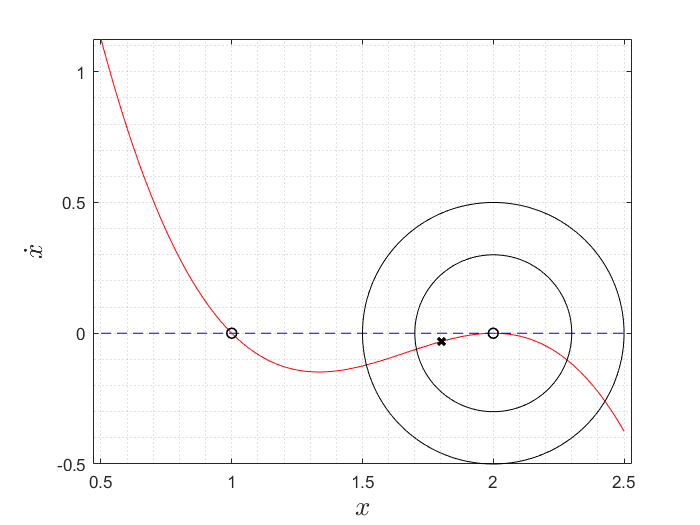
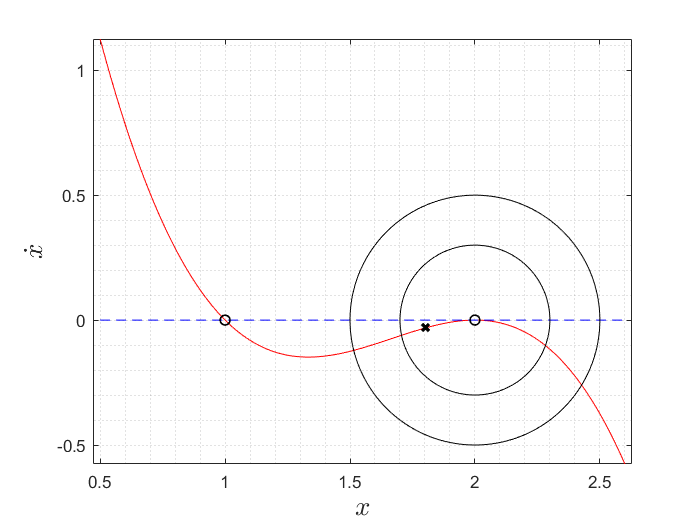
Add files via upload

diff --git a/Exercises/Exercise-1/Code/stability.m b/Exercises/Exercise-1/Code/stability.m
@@ -10,7 +10,7 @@ syms z y k l
 
 
 %% Dynamical System
-x = 0.5:0.000001:2.5;
+x = 0.5:0.0000001:2.6;
 x_dot = -(x-1).*((x-2).^2);
 
 % Circle Parameters
@@ -32,4 +32,5 @@ plot(2,0,'ko','LineWidth',1);
 axis equal;
 grid minor;
 xlabel("$x$","Interpreter","latex","FontSize",16);
-ylabel("$\dot{x}$","Interpreter","latex","FontSize",16)
+ylabel("$\dot{x}$","Interpreter","latex","FontSize",16);
+ylim([-0.7 0.9]);
